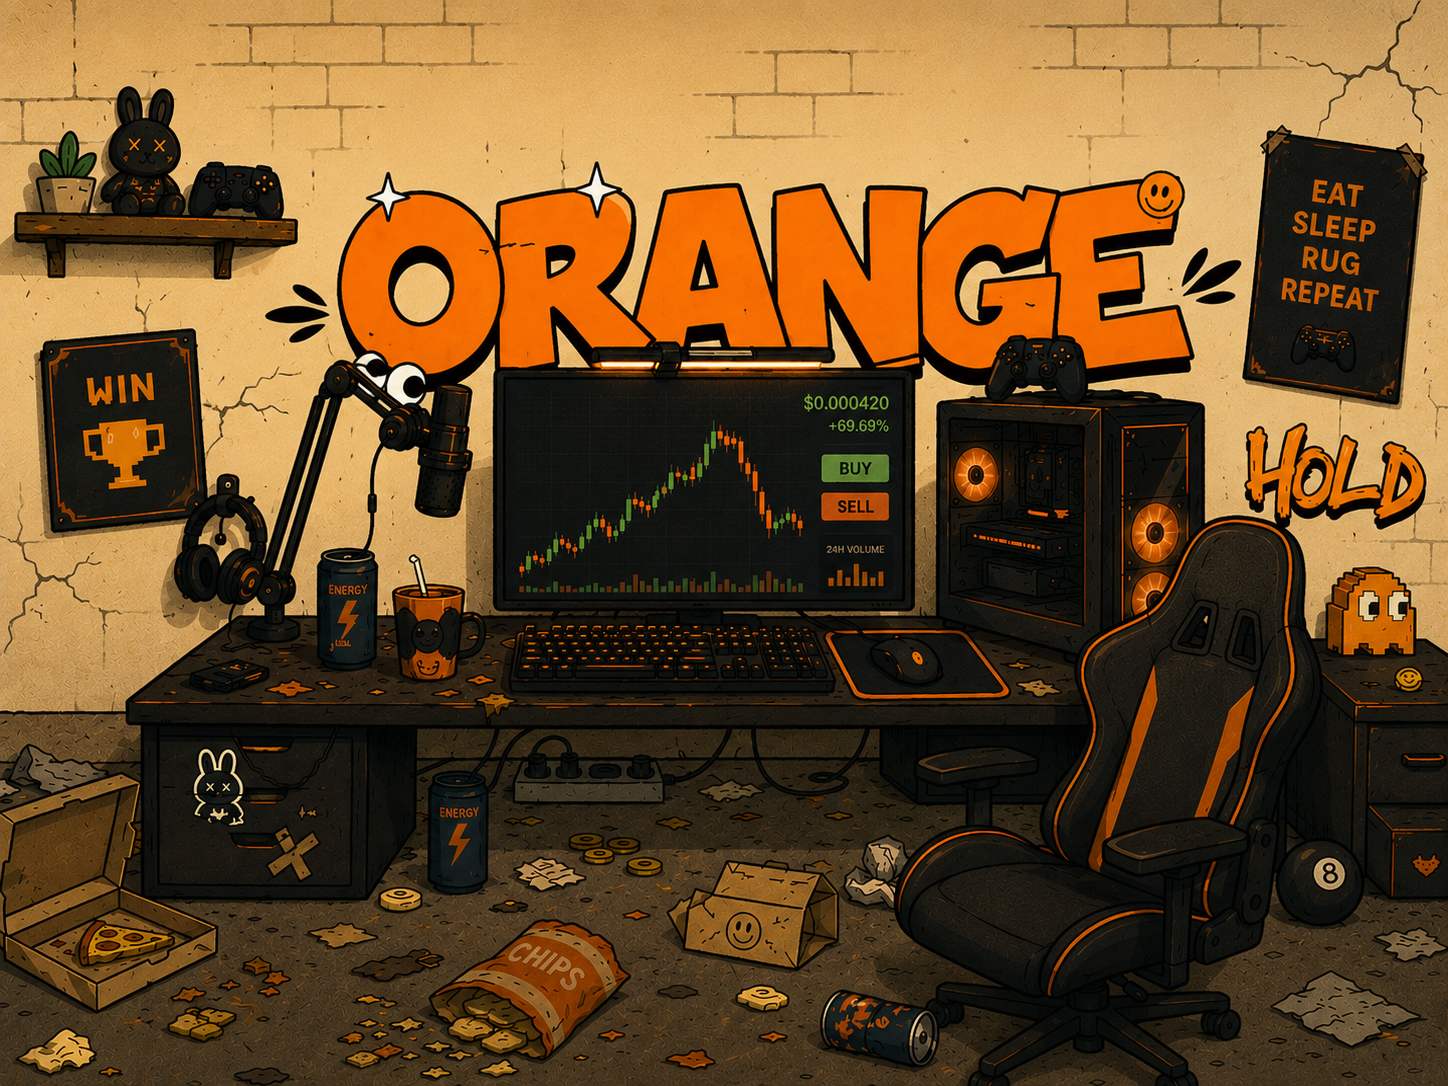
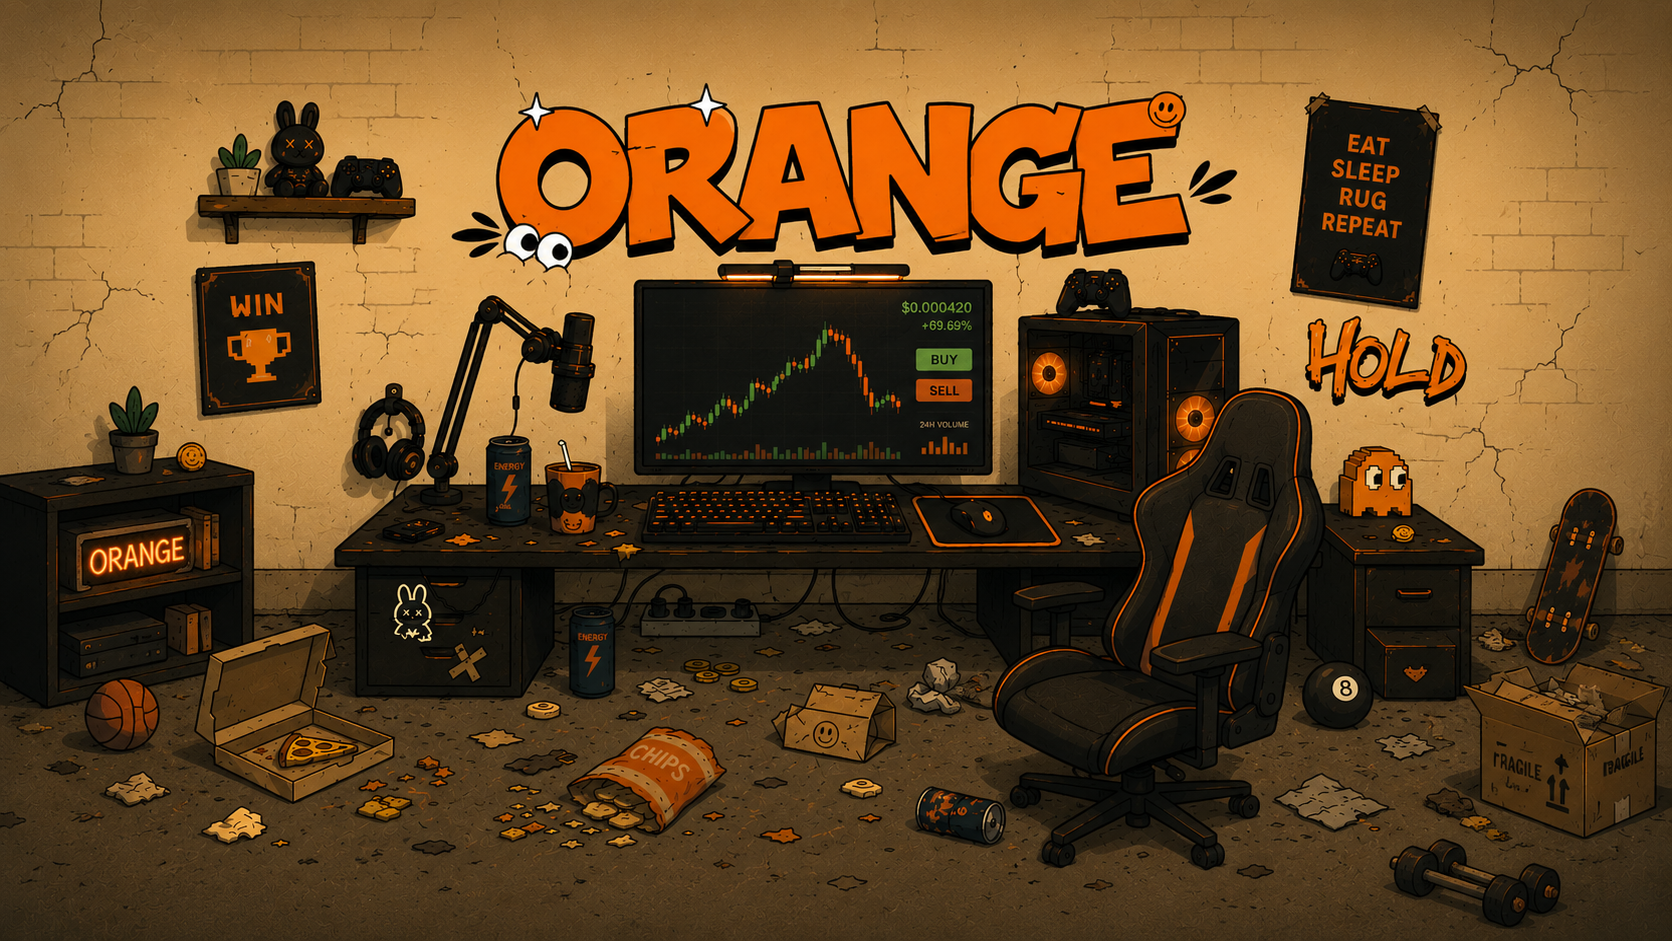
Use new 16:9 background; reposition speech bubble for new chair location
Swap background to the 1672x941 (16:9) illustration so it fills modern monitors
edge-to-edge without cropping. Updated the aspect ratio constants in Hero so
the cover-fit wrapper sizes correctly. Bumped the speech bubble's right edge
further left (width 36%, top 44%) since the chair sits more centrally in the
new composition.

diff --git a/src/components/Hero.tsx b/src/components/Hero.tsx
@@ -1,7 +1,7 @@
 import Image from "next/image";
 
-const IMG_W = 1448;
-const IMG_H = 1086;
+const IMG_W = 1672;
+const IMG_H = 941;
 const IMG_ASPECT = IMG_W / IMG_H;
 
 export default function Hero() {
@@ -31,7 +31,7 @@ export default function Hero() {
         {/* Speech bubble — LEFT of the painted chair, tail pointing right */}
         <div
           className="absolute z-10"
-          style={{ left: "8%", top: "40%", width: "44%", maxWidth: "440px" }}
+          style={{ left: "8%", top: "44%", width: "36%", maxWidth: "440px" }}
         >
           <div className="relative rounded-2xl border-[3px] border-ink bg-cream px-5 py-4 text-left font-mono text-sm text-ink shadow-[6px_6px_0_0_rgba(0,0,0,0.85)] sm:text-base">
             <span className="font-fat text-orange">orange:</span> sup. type below and i&apos;ll yap back.
